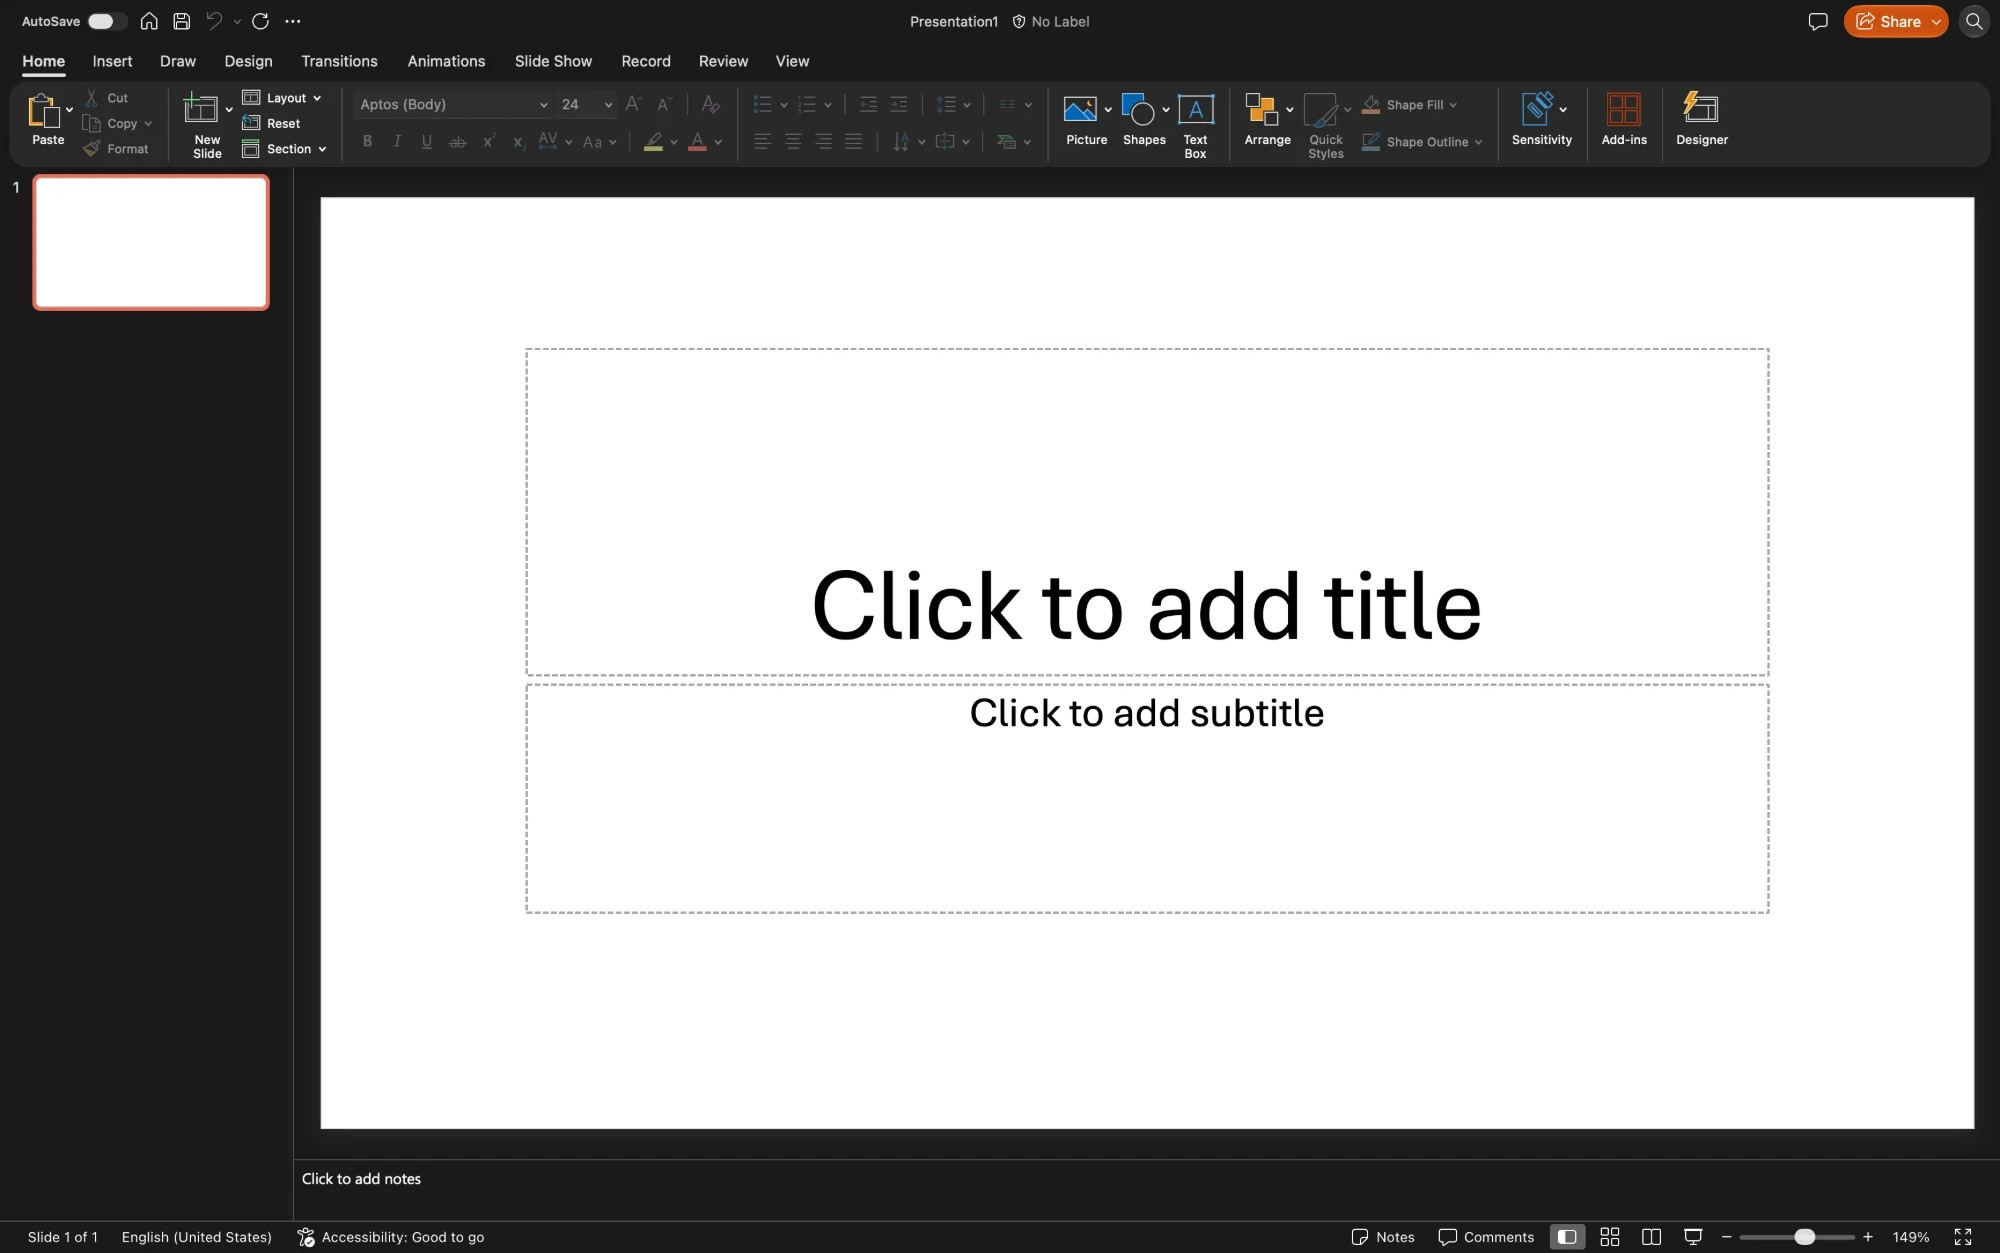
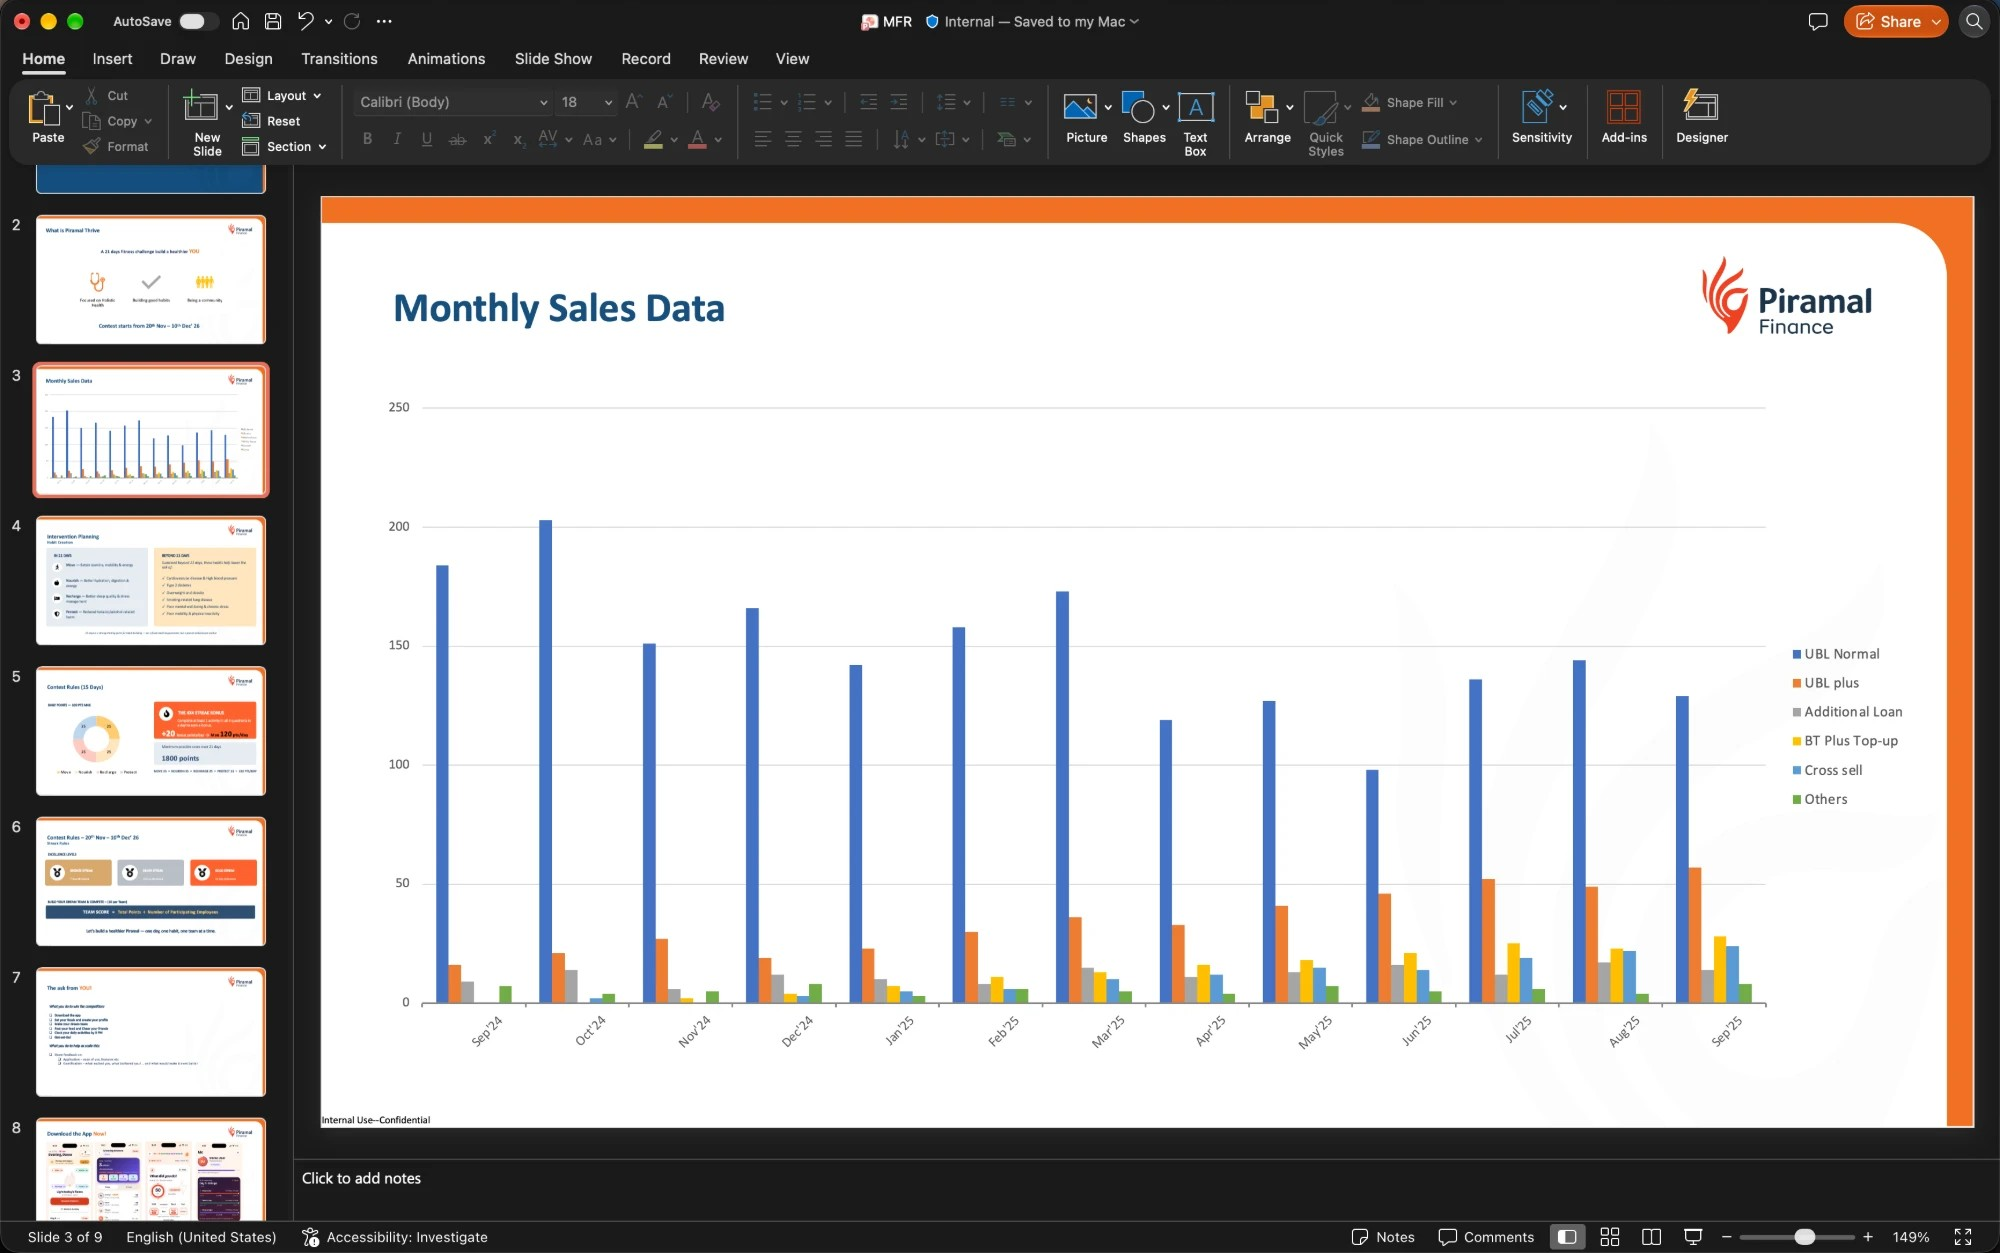
Everyday AI: Prastuti's before is the hand-made chart slide; the stopwatch carries the real deck
The deck inside the 18-minute stopwatch is the same screenshot as the result
(demo.shots.deck), so replacing that one file updates both.

diff --git a/src/everyday/moments/prastuti.tsx b/src/everyday/moments/prastuti.tsx
@@ -536,8 +536,10 @@ function Stat({ product }: P) {
       <div className="prastuti-mini">
         <i className="prastuti-mini-card prastuti-mini-card--3" />
         <i className="prastuti-mini-card prastuti-mini-card--2" />
+        {/* the deck Prastuti built: the SAME real screen as the result (demo.shots.deck), so the two
+            change together; the drawn cover stands in only while there is no file */}
         <div className="prastuti-mini-card prastuti-mini-card--1">
-          <TitleFace slide={cover} />
+          {product.demo.shots.deck.src ? <Shot shot={product.demo.shots.deck} className="prastuti-mini-shot" /> : <TitleFace slide={cover} />}
         </div>
         <i className="prastuti-mini-check">
           <svg viewBox="0 0 24 24" fill="none" stroke="#fff" strokeWidth="3.4" strokeLinecap="round" strokeLinejoin="round" aria-hidden="true">

diff --git a/src/everyday/content.ts b/src/everyday/content.ts
@@ -409,8 +409,8 @@ export const PRODUCTS: Product[] = [
       shots: {
         before: {
           src: '/everyday/shots/prastuti-before.jpg',
-          label: 'PowerPoint: a blank deck',
-          want: 'PowerPoint open on an empty slide ("Click to add title"), the full ribbon showing.',
+          label: 'PowerPoint: the chart, made by hand',
+          want: 'PowerPoint open on a hand-made chart slide: a crowded default chart, no takeaway.',
         },
         ask: {
           src: '/everyday/shots/prastuti-ask.jpg',

diff --git a/src/everyday/moments/prastuti.css b/src/everyday/moments/prastuti.css
@@ -1441,3 +1441,12 @@
 .ev-shot.prastuti-shot img {
   object-fit: contain;
 }
+
+/* the same real screen, small, on the deck inside the stopwatch */
+.ev-shot.prastuti-mini-shot {
+  border-radius: inherit;
+  background: #ffffff;
+}
+.ev-shot.prastuti-mini-shot img {
+  object-position: 0 0;
+}
